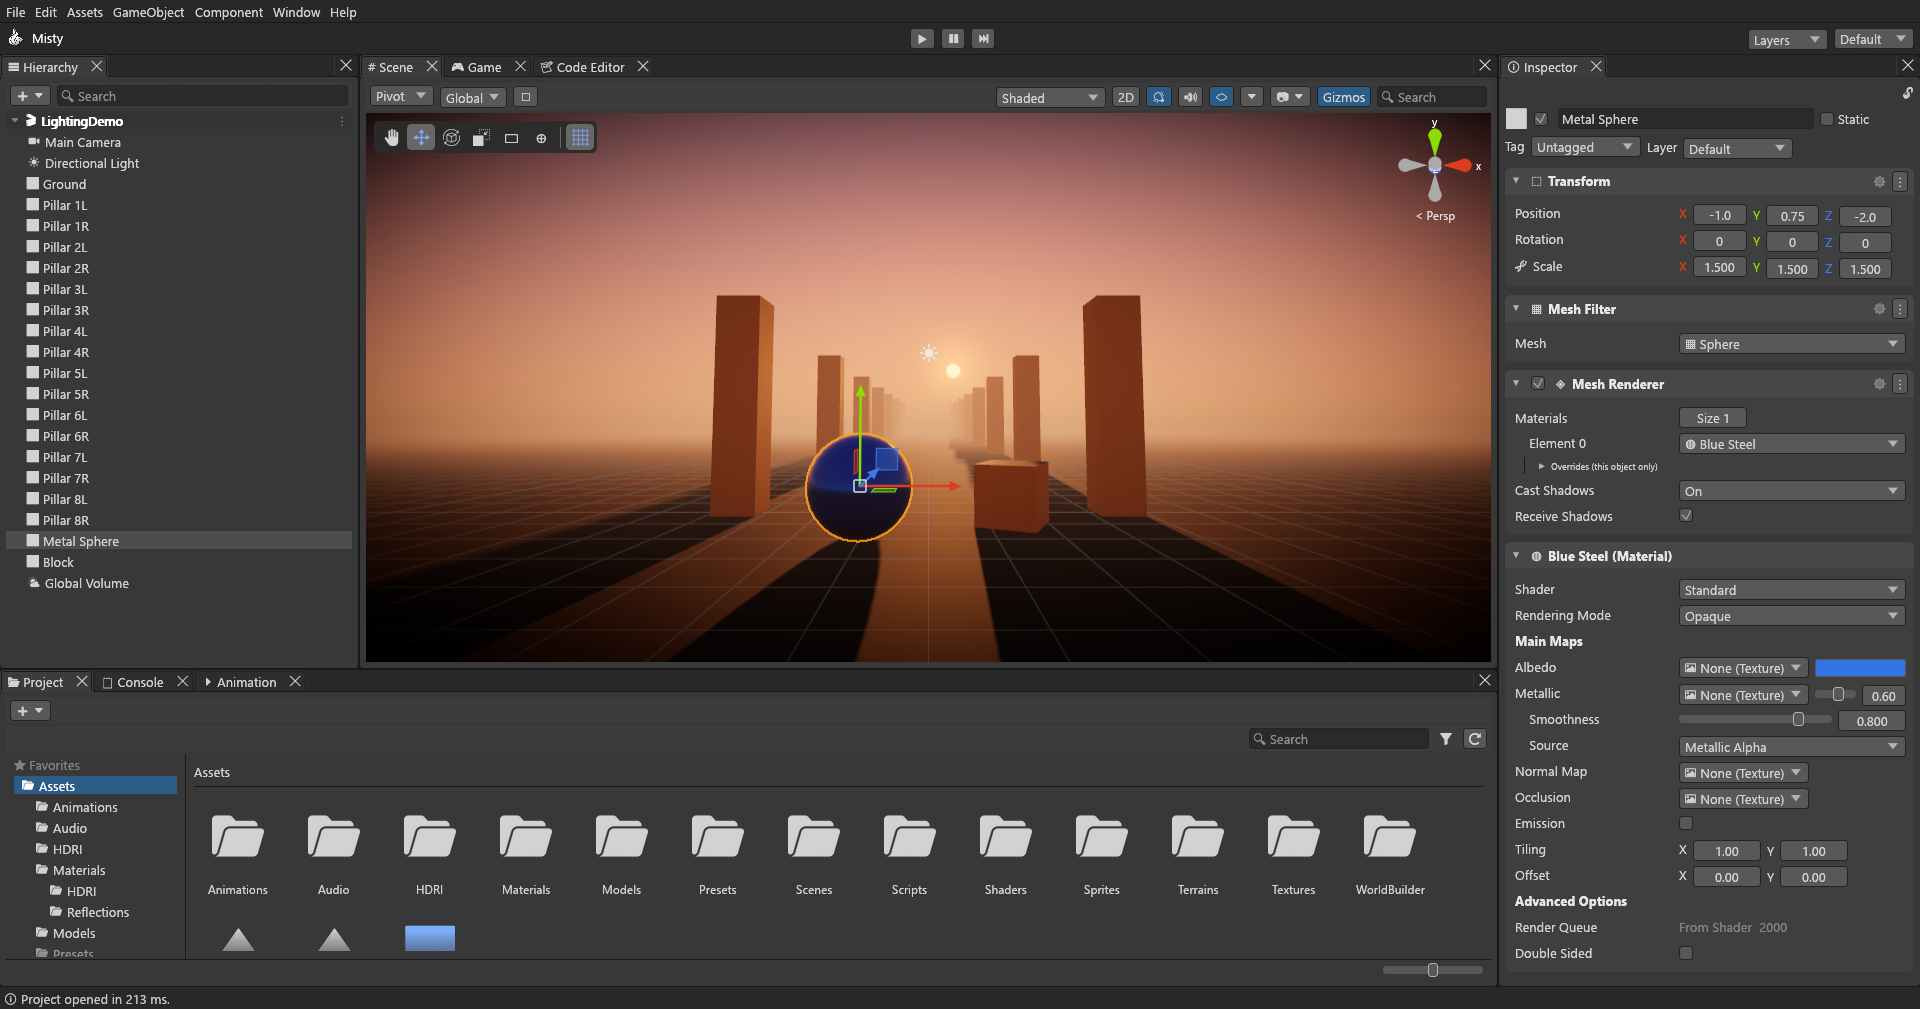
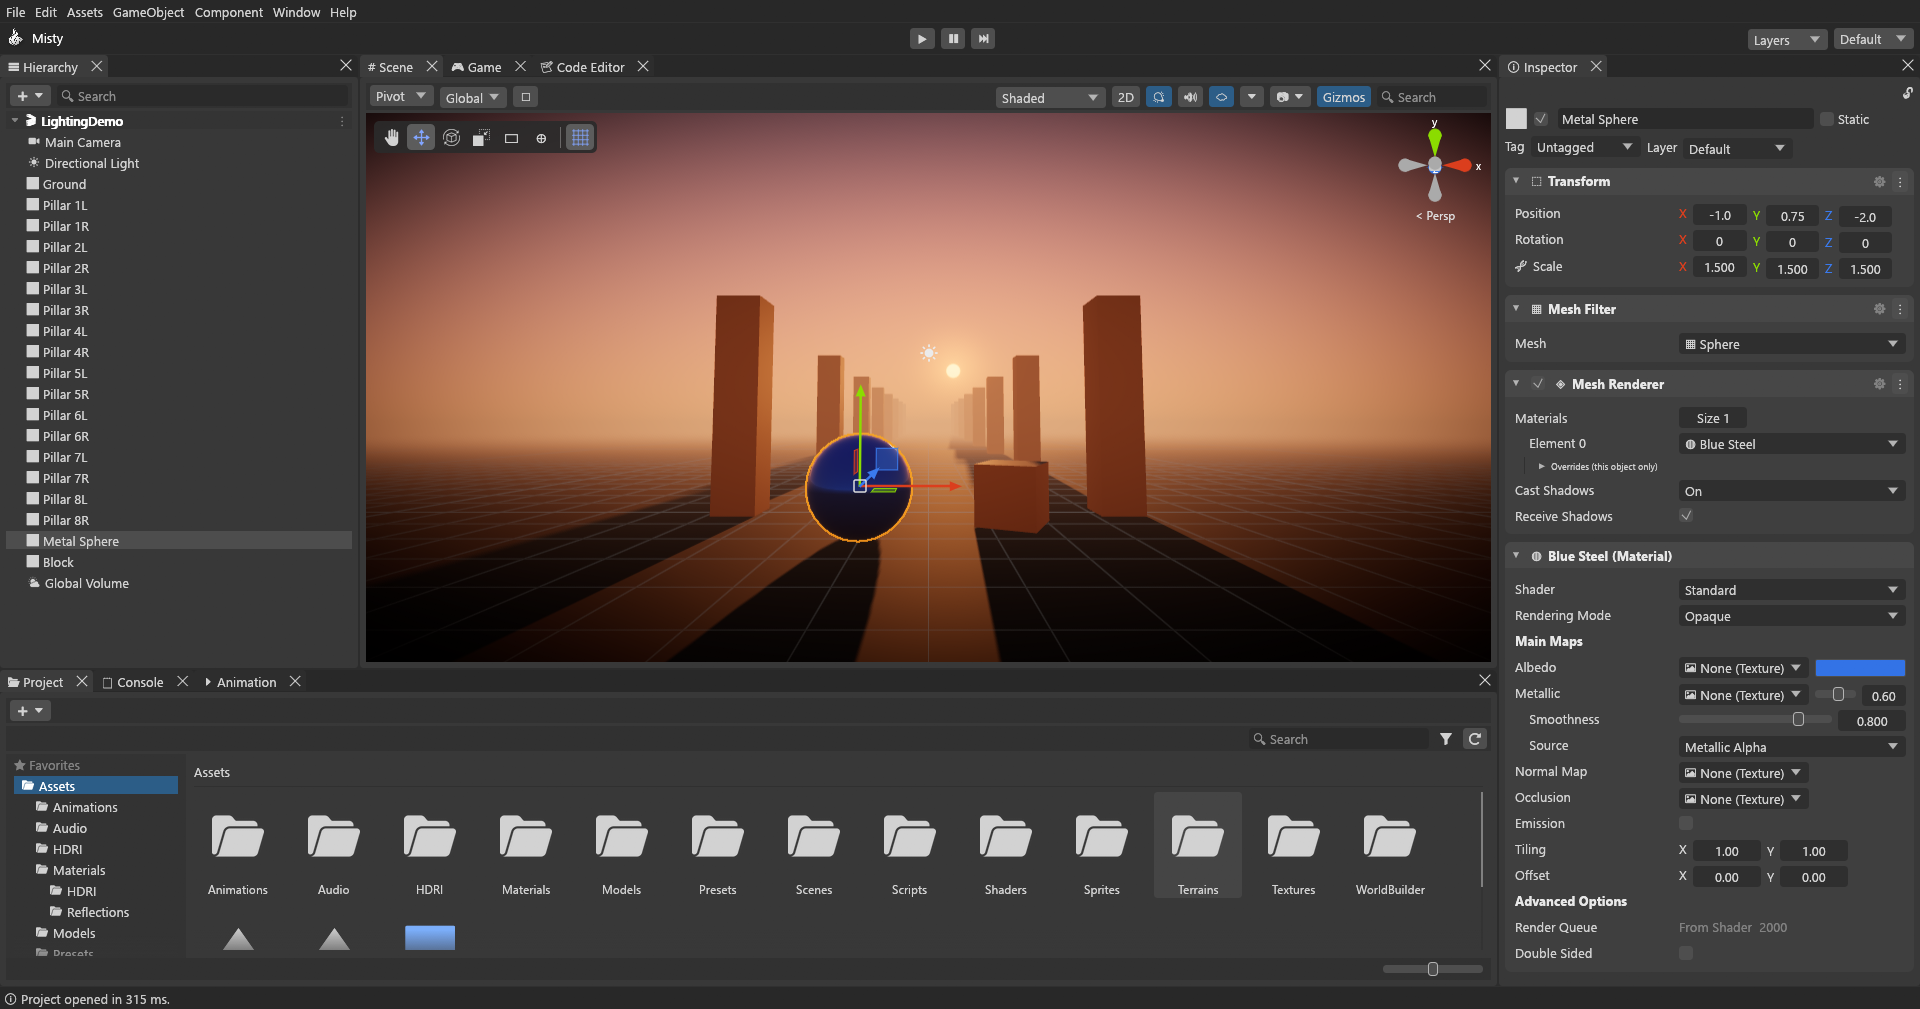
Theme: remove dark outlines, separate areas with soft shade steps
Buttons, combo boxes, fields, popups, tabs and panel splits no longer draw near-black
strokes. Panel toolbars and the Project bottom bar are a step darker than panel bodies, the
Project folder tree a step off the file area, inputs darker than cards, buttons lighter.
Separators and dock gaps use soft greys; focus and selection keep the accent colour.

diff --git a/crates/misty_editor/src/theme.rs b/crates/misty_editor/src/theme.rs
@@ -1,4 +1,6 @@
 //! Dark editor theme with the familiar grey-panel / blue-selection look.
+//! No outlines: areas and widgets are told apart by soft shade steps (bars darker than panel
+//! bodies, fields darker, buttons lighter); only focus and selection use the accent colour.
 
 use egui::{Color32, CornerRadius, Stroke, Visuals};
 
@@ -6,10 +8,22 @@ pub const PANEL_BG: Color32 = Color32::from_rgb(56, 56, 56);
 pub const TAB_BAR_BG: Color32 = Color32::from_rgb(40, 40, 40);
 pub const TAB_ACTIVE: Color32 = Color32::from_rgb(60, 60, 60);
 pub const TAB_INACTIVE: Color32 = Color32::from_rgb(45, 45, 45);
-pub const BORDER: Color32 = Color32::from_rgb(25, 25, 25);
+/// Dock separators and the gaps between docked panels: a soft step darker than the panels.
+pub const BORDER: Color32 = Color32::from_rgb(44, 44, 44);
+/// Soft divider lines (separators, panel splits): close to the panel colour.
+pub const DIVIDER: Color32 = Color32::from_rgb(48, 48, 48);
 pub const FIELD_BG: Color32 = Color32::from_rgb(42, 42, 42);
-pub const BUTTON_BG: Color32 = Color32::from_rgb(88, 88, 88);
-pub const HOVER_BG: Color32 = Color32::from_rgb(103, 103, 103);
+/// Number fields and dropdowns inside Inspector property rows.
+pub const INPUT_BG: Color32 = Color32::from_rgb(47, 47, 47);
+pub const INPUT_HOVER: Color32 = Color32::from_rgb(55, 55, 55);
+pub const BUTTON_BG: Color32 = Color32::from_rgb(78, 78, 78);
+pub const HOVER_BG: Color32 = Color32::from_rgb(92, 92, 92);
+/// Panel toolbars (the Hierarchy / Project create and search strips, bottom bars).
+pub const TOOLBAR_BG: Color32 = Color32::from_rgb(49, 49, 49);
+/// The Project window's folder tree, a soft step off the file area.
+pub const SIDEBAR_BG: Color32 = Color32::from_rgb(51, 51, 51);
+/// Popups and menus: a step lighter than panels instead of an outline.
+pub const POPUP_BG: Color32 = Color32::from_rgb(62, 62, 62);
 pub const SELECTION: Color32 = Color32::from_rgb(44, 93, 135);
 /// Inspector component cards: body and header bar (a soft step lighter than the panel).
 pub const CARD_BG: Color32 = Color32::from_rgb(63, 63, 63);
@@ -99,31 +113,34 @@ pub fn apply(ctx: &egui::Context) {
     let mut v = Visuals::dark();
     v.override_text_color = Some(TEXT);
     v.panel_fill = PANEL_BG;
-    v.window_fill = PANEL_BG;
+    v.window_fill = POPUP_BG;
     v.extreme_bg_color = FIELD_BG;
     v.faint_bg_color = Color32::from_rgb(62, 62, 62);
-    v.window_stroke = Stroke::new(1.0, BORDER);
+    v.window_stroke = Stroke::NONE;
     v.selection.bg_fill = SELECTION;
     v.selection.stroke = Stroke::new(1.0, Color32::WHITE);
     v.hyperlink_color = Color32::from_rgb(76, 126, 255);
 
     let r = CornerRadius::same(3);
     v.widgets.noninteractive.bg_fill = PANEL_BG;
-    v.widgets.noninteractive.bg_stroke = Stroke::new(1.0, BORDER);
+    v.widgets.noninteractive.bg_stroke = Stroke::new(1.0, DIVIDER);
     v.widgets.noninteractive.fg_stroke = Stroke::new(1.0, TEXT);
     v.widgets.inactive.bg_fill = BUTTON_BG;
     v.widgets.inactive.weak_bg_fill = BUTTON_BG;
-    v.widgets.inactive.bg_stroke = Stroke::new(1.0, Color32::from_rgb(36, 36, 36));
+    v.widgets.inactive.bg_stroke = Stroke::NONE;
     v.widgets.inactive.corner_radius = r;
     v.widgets.hovered.bg_fill = HOVER_BG;
     v.widgets.hovered.weak_bg_fill = HOVER_BG;
-    v.widgets.hovered.bg_stroke = Stroke::new(1.0, Color32::from_rgb(36, 36, 36));
+    v.widgets.hovered.bg_stroke = Stroke::NONE;
     v.widgets.hovered.corner_radius = r;
     v.widgets.active.bg_fill = Color32::from_rgb(70, 96, 124);
     v.widgets.active.weak_bg_fill = Color32::from_rgb(70, 96, 124);
+    v.widgets.active.bg_stroke = Stroke::NONE;
     v.widgets.active.corner_radius = r;
     v.widgets.open.bg_fill = Color32::from_rgb(70, 70, 70);
     v.widgets.open.weak_bg_fill = Color32::from_rgb(70, 70, 70);
+    v.widgets.open.bg_stroke = Stroke::NONE;
+    v.widgets.open.corner_radius = r;
 
     ctx.set_visuals(v);
     ctx.global_style_mut(|s| {
@@ -143,7 +160,7 @@ pub fn dock_style(ctx: &egui::Context) -> egui_dock::Style {
     s.separator.color_dragged = SELECTION;
     s.tab_bar.bg_fill = TAB_BAR_BG;
     s.tab_bar.height = 22.0;
-    s.tab_bar.hline_color = BORDER;
+    s.tab_bar.hline_color = TAB_BAR_BG;
     s.tab.active.bg_fill = TAB_ACTIVE;
     s.tab.active.text_color = Color32::WHITE;
     s.tab.focused.bg_fill = TAB_ACTIVE;
@@ -154,5 +171,21 @@ pub fn dock_style(ctx: &egui::Context) -> egui_dock::Style {
     s.tab.hovered.text_color = TEXT;
     s.tab.tab_body.bg_fill = PANEL_BG;
     s.tab.tab_body.stroke = Stroke::NONE;
+    for t in [
+        &mut s.tab.active,
+        &mut s.tab.inactive,
+        &mut s.tab.focused,
+        &mut s.tab.hovered,
+        &mut s.tab.inactive_with_kb_focus,
+        &mut s.tab.active_with_kb_focus,
+        &mut s.tab.focused_with_kb_focus,
+    ] {
+        t.outline_color = Color32::TRANSPARENT;
+    }
+    s.tab.hline_below_active_tab_name = false;
+    s.buttons.add_tab_border_color = Color32::TRANSPARENT;
+    s.buttons.close_all_tabs_border_color = Color32::TRANSPARENT;
+    s.buttons.collapse_tabs_border_color = Color32::TRANSPARENT;
+    s.buttons.minimize_window_border_color = Color32::TRANSPARENT;
     s
 }

diff --git a/crates/misty_editor/src/widgets.rs b/crates/misty_editor/src/widgets.rs
@@ -45,6 +45,13 @@ pub fn label_width_or(ui: &Ui, fallback: f32) -> f32 {
     }
 }
 
+/// Number fields and dropdowns drawn in `ui` read as inputs: a soft step darker than panels.
+pub fn input_fills(ui: &mut Ui) {
+    let w = &mut ui.visuals_mut().widgets;
+    w.inactive.weak_bg_fill = theme::INPUT_BG;
+    w.hovered.weak_bg_fill = theme::INPUT_HOVER;
+}
+
 /// One `X [..] Y [..] Z [..]` row. Dragging an axis letter scrubs its value.
 /// Returns true when any value changed.
 pub fn vec3_row(ui: &mut Ui, label: &str, value: &mut [f32; 3], speed: f32) -> bool {
@@ -61,6 +68,7 @@ pub fn vec3_row_mixed(
 ) -> bool {
     let mut changed = false;
     ui.horizontal(|ui| {
+        input_fills(ui);
         let h = ui.spacing().interact_size.y;
         let label_w = label_width_or(ui, 72.0);
         ui.allocate_ui_with_layout(
@@ -107,24 +115,18 @@ fn axis_color(i: usize) -> Color32 {
     }
 }
 
-/// Thin horizontal strip used as a panel toolbar.
+/// Thin horizontal strip used as a panel toolbar: a soft step darker than the panel body,
+/// without an outline.
 pub fn panel_toolbar<R>(ui: &mut Ui, add: impl FnOnce(&mut Ui) -> R) -> R {
     let frame = egui::Frame::new()
-        .fill(Color32::from_rgb(60, 60, 60))
+        .fill(theme::TOOLBAR_BG)
         .inner_margin(egui::Margin::symmetric(4, 2));
-    let r = frame
+    frame
         .show(ui, |ui| {
             ui.set_width(ui.available_width());
             ui.horizontal(add).inner
         })
-        .inner;
-    let rect = ui.min_rect();
-    ui.painter().hline(
-        rect.x_range(),
-        ui.cursor().top(),
-        egui::Stroke::new(1.0, theme::BORDER),
-    );
-    r
+        .inner
 }
 
 /// Search field with a magnifier hint.

diff --git a/crates/misty_editor/src/panels/project.rs b/crates/misty_editor/src/panels/project.rs
@@ -46,6 +46,8 @@ pub fn show(ui: &mut Ui, state: &mut EditorState) {
     // Bottom bar: selected path and icon-size slider.
     egui::Panel::bottom("project_bottom_bar")
         .exact_size(22.0)
+        .show_separator_line(false)
+        .frame(egui::Frame::side_top_panel(ui.style()).fill(theme::TOOLBAR_BG))
         .show(ui, |ui| {
             ui.horizontal_centered(|ui| {
                 if let Some(sel) = &browser.selected {
@@ -59,6 +61,8 @@ pub fn show(ui: &mut Ui, state: &mut EditorState) {
 
     egui::Panel::left("project_tree")
         .default_size(180.0)
+        .show_separator_line(false)
+        .frame(egui::Frame::side_top_panel(ui.style()).fill(theme::SIDEBAR_BG))
         .resizable(true)
         .show(ui, |ui| {
             egui::ScrollArea::vertical()

diff --git a/crates/misty_editor/src/panels/inspector/card.rs b/crates/misty_editor/src/panels/inspector/card.rs
@@ -136,6 +136,7 @@ pub fn fit_widgets(ui: &mut Ui, value_w: f32) {
     s.text_edit_width = value_w;
     s.interact_size.x = number_w;
     s.slider_width = (value_w - number_w - s.item_spacing.x).max(40.0);
+    crate::widgets::input_fills(ui);
 }
 
 /// Bold sub-section header ("Shadow Settings") between groups of rows, outside a grid.

diff --git a/crates/misty_editor/src/panels/inspector/mod.rs b/crates/misty_editor/src/panels/inspector/mod.rs
@@ -194,6 +194,7 @@ fn header(ui: &mut Ui, state: &mut EditorState, targets: &[Entity]) {
             .changed();
     });
     ui.horizontal(|ui| {
+        crate::widgets::input_fills(ui);
         ui.label("Tag");
         egui::ComboBox::from_id_salt("insp_tag")
             .selected_text(if mixed_tag {
